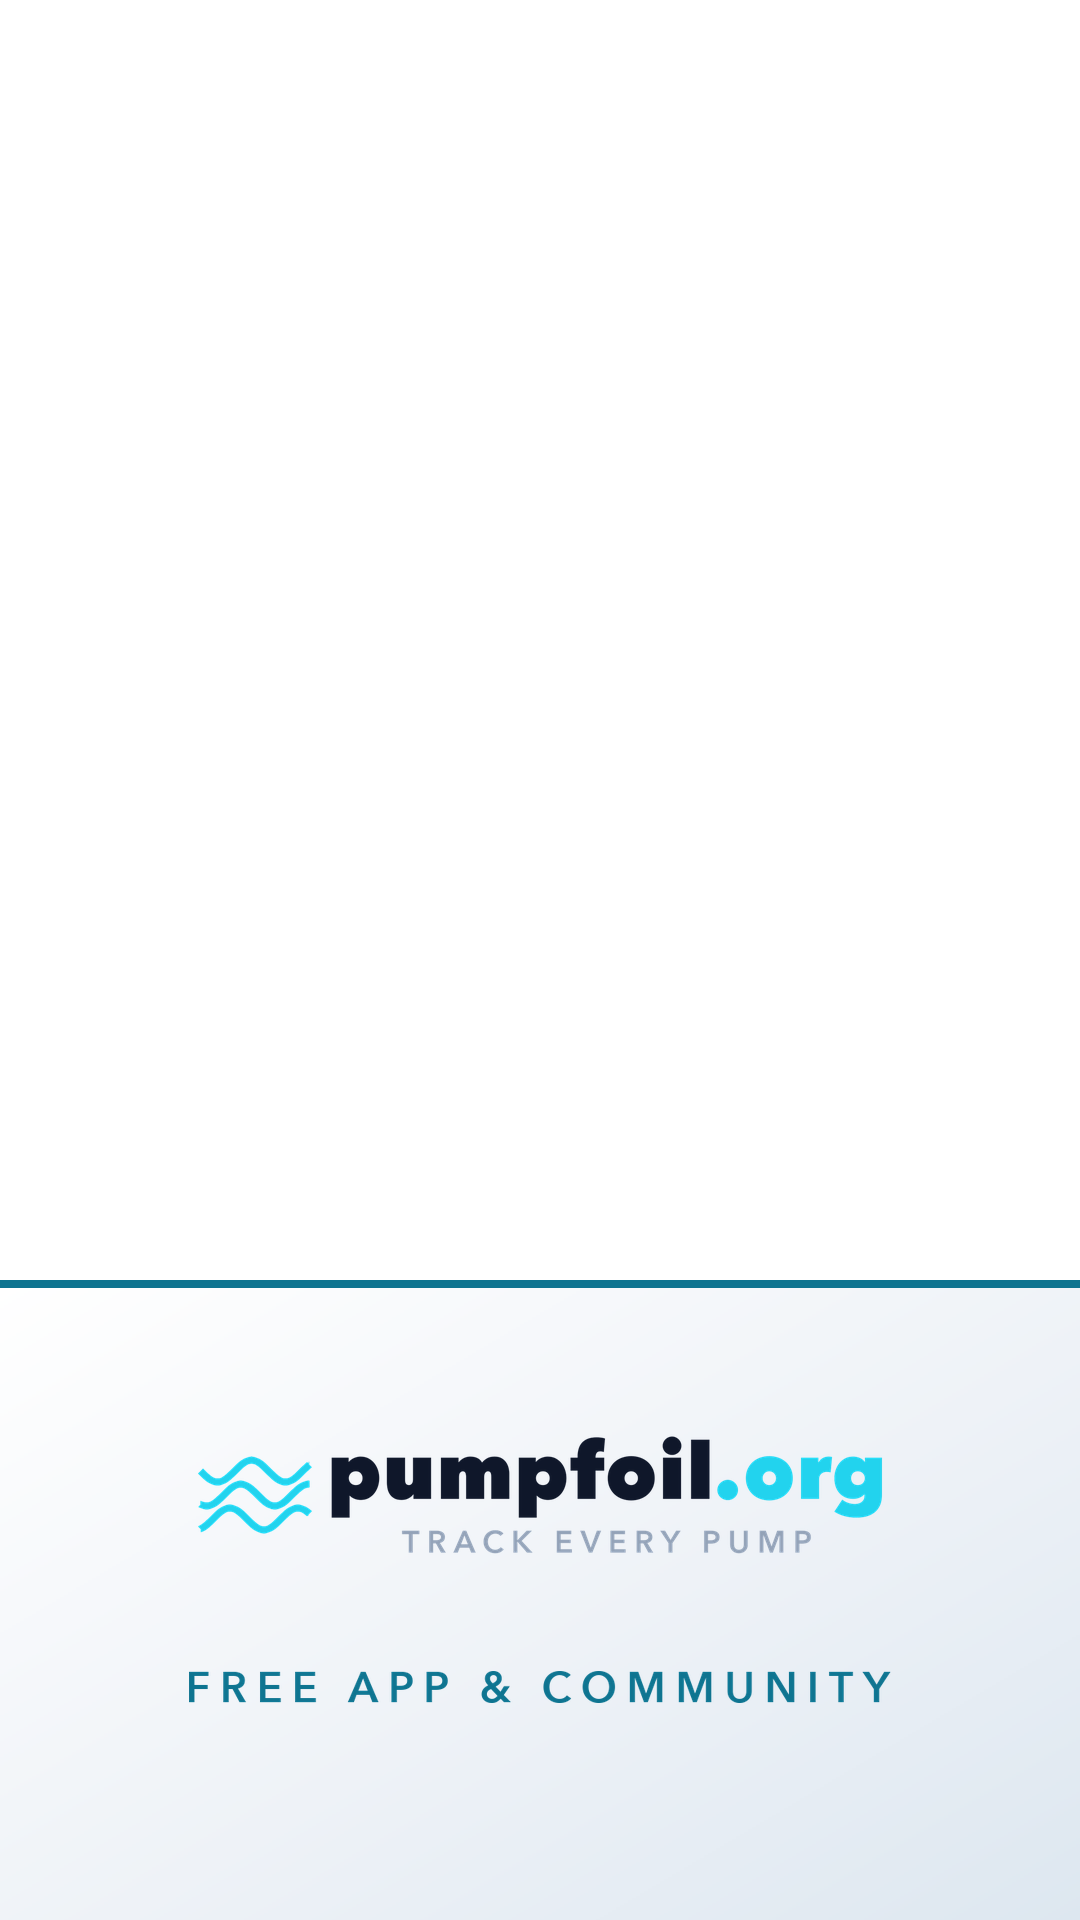
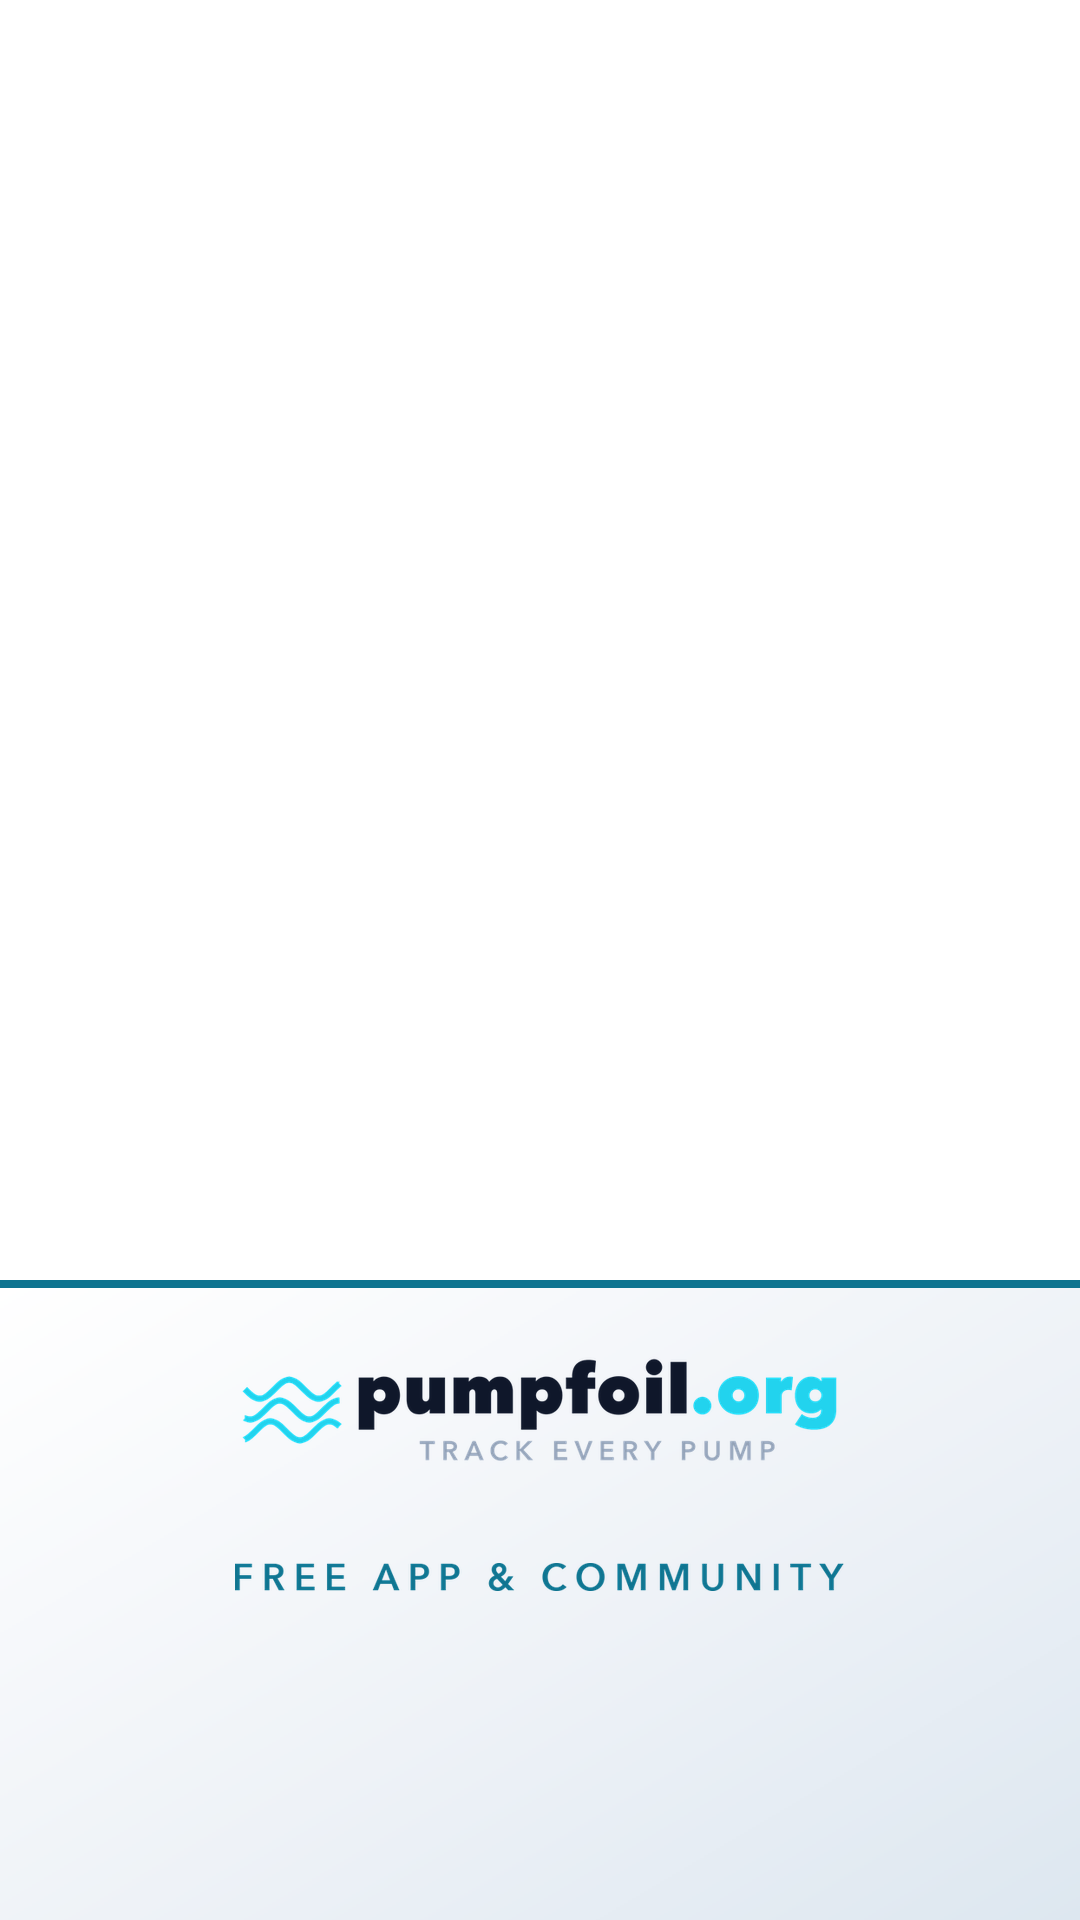
Drittel-Endcard: Inhalt nur noch in der oberen Haelfte des Streifens
Auf YouTube sass "@pumpfoil-org" samt Kanalbild genau auf der Zeile
FREE APP & COMMUNITY, darunter noch der Videotitel. Die untere Haelfte des
Streifens ist auf allen Plattformen fremd belegt — Caption, Handle, Knoepfe.

Statt der festen 140 px Luft unten sitzt der Inhalt jetzt mittig in der oberen
Haelfte (INHALT_ANTEIL). Der Block war dafuer zu hoch, deshalb schrumpft er als
Ganzes, wenn er nicht hineinpasst, statt abgeschnitten zu werden — lieber
etwas kleiner als in fremde Elemente hineinragen, und es passt sich von selbst
an, falls die Zeile spaeter laenger wird.

Nachgemessen statt geschaetzt: der Inhalt endet jetzt bei y=1591, die
Haelfte liegt bei y=1600. Gemessen ueber die Differenz zum reinen Verlauf,
weil die Alpha-Box den ganzen Streifen umfasst und nichts ueber die Lage des
Inhalts sagt.

diff --git a/brand/master/endcard-band.py b/brand/master/endcard-band.py
@@ -20,8 +20,11 @@ W, H = 1080, 1920
 BAND_H = H // 3                 # exakt das untere Drittel
 RAND = 90                       # seitlicher Rand wie in endcard.py
 KANTE = 8                       # Cyan-Kante als Trennung zum Video darueber
-# Untere 210 px bleiben frei: dort liegen bei Instagram und TikTok Caption und Knoepfe.
-UI_LUFT = 140
+# Logo und Zeile nur in der OBEREN HAELFTE des Streifens. Die untere Haelfte
+# belegen auf allen Plattformen fremde Elemente: bei YouTube Kanalbild, Handle
+# und Videotitel, bei Instagram und TikTok Caption und Knoepfe (Jan, 08.09. —
+# vorher lag "@pumpfoil-org" genau auf der Zeile FREE APP & COMMUNITY).
+INHALT_ANTEIL = 0.5
 
 HIER = os.path.dirname(os.path.abspath(__file__))
 LOGO = os.path.join(HIER, "..", "logo", "logo-horizontal-{theme}.png")
@@ -112,11 +115,18 @@ def band(theme: str) -> Image.Image:
     zeile = zeile.resize((round(zeile.width * z_faktor), round(zeile.height * z_faktor)),
                          Image.LANCZOS)
 
-    # Inhalt in der oberen Haelfte des Streifens: unten bleibt Luft fuer die Bedienelemente
-    # der Plattformen, sonst liegt bei Instagram die Caption auf der Wortmarke.
+    # Mittig in der oberen Haelfte des Streifens — die untere bleibt den
+    # Bedienelementen der Plattformen. Passt der Block nicht hinein, schrumpft
+    # er als Ganzes: lieber etwas kleiner als in fremde Elemente hineinragen.
     abstand = 46
+    frei = round(BAND_H * INHALT_ANTEIL) - KANTE
     block = lock.height + abstand + zeile.height
-    frei = BAND_H - KANTE - UI_LUFT
+    if block > frei:
+        f = (frei * 0.94) / block          # 6 % Luft, sonst klebt es an der Kante
+        abstand = round(abstand * f)
+        lock = lock.resize((round(lock.width * f), round(lock.height * f)), Image.LANCZOS)
+        zeile = zeile.resize((round(zeile.width * f), round(zeile.height * f)), Image.LANCZOS)
+        block = lock.height + abstand + zeile.height
     y = H - BAND_H + KANTE + max(0, (frei - block) // 2)
     bild.alpha_composite(lock, ((W - lock.width) // 2, y))
     y += lock.height + abstand
